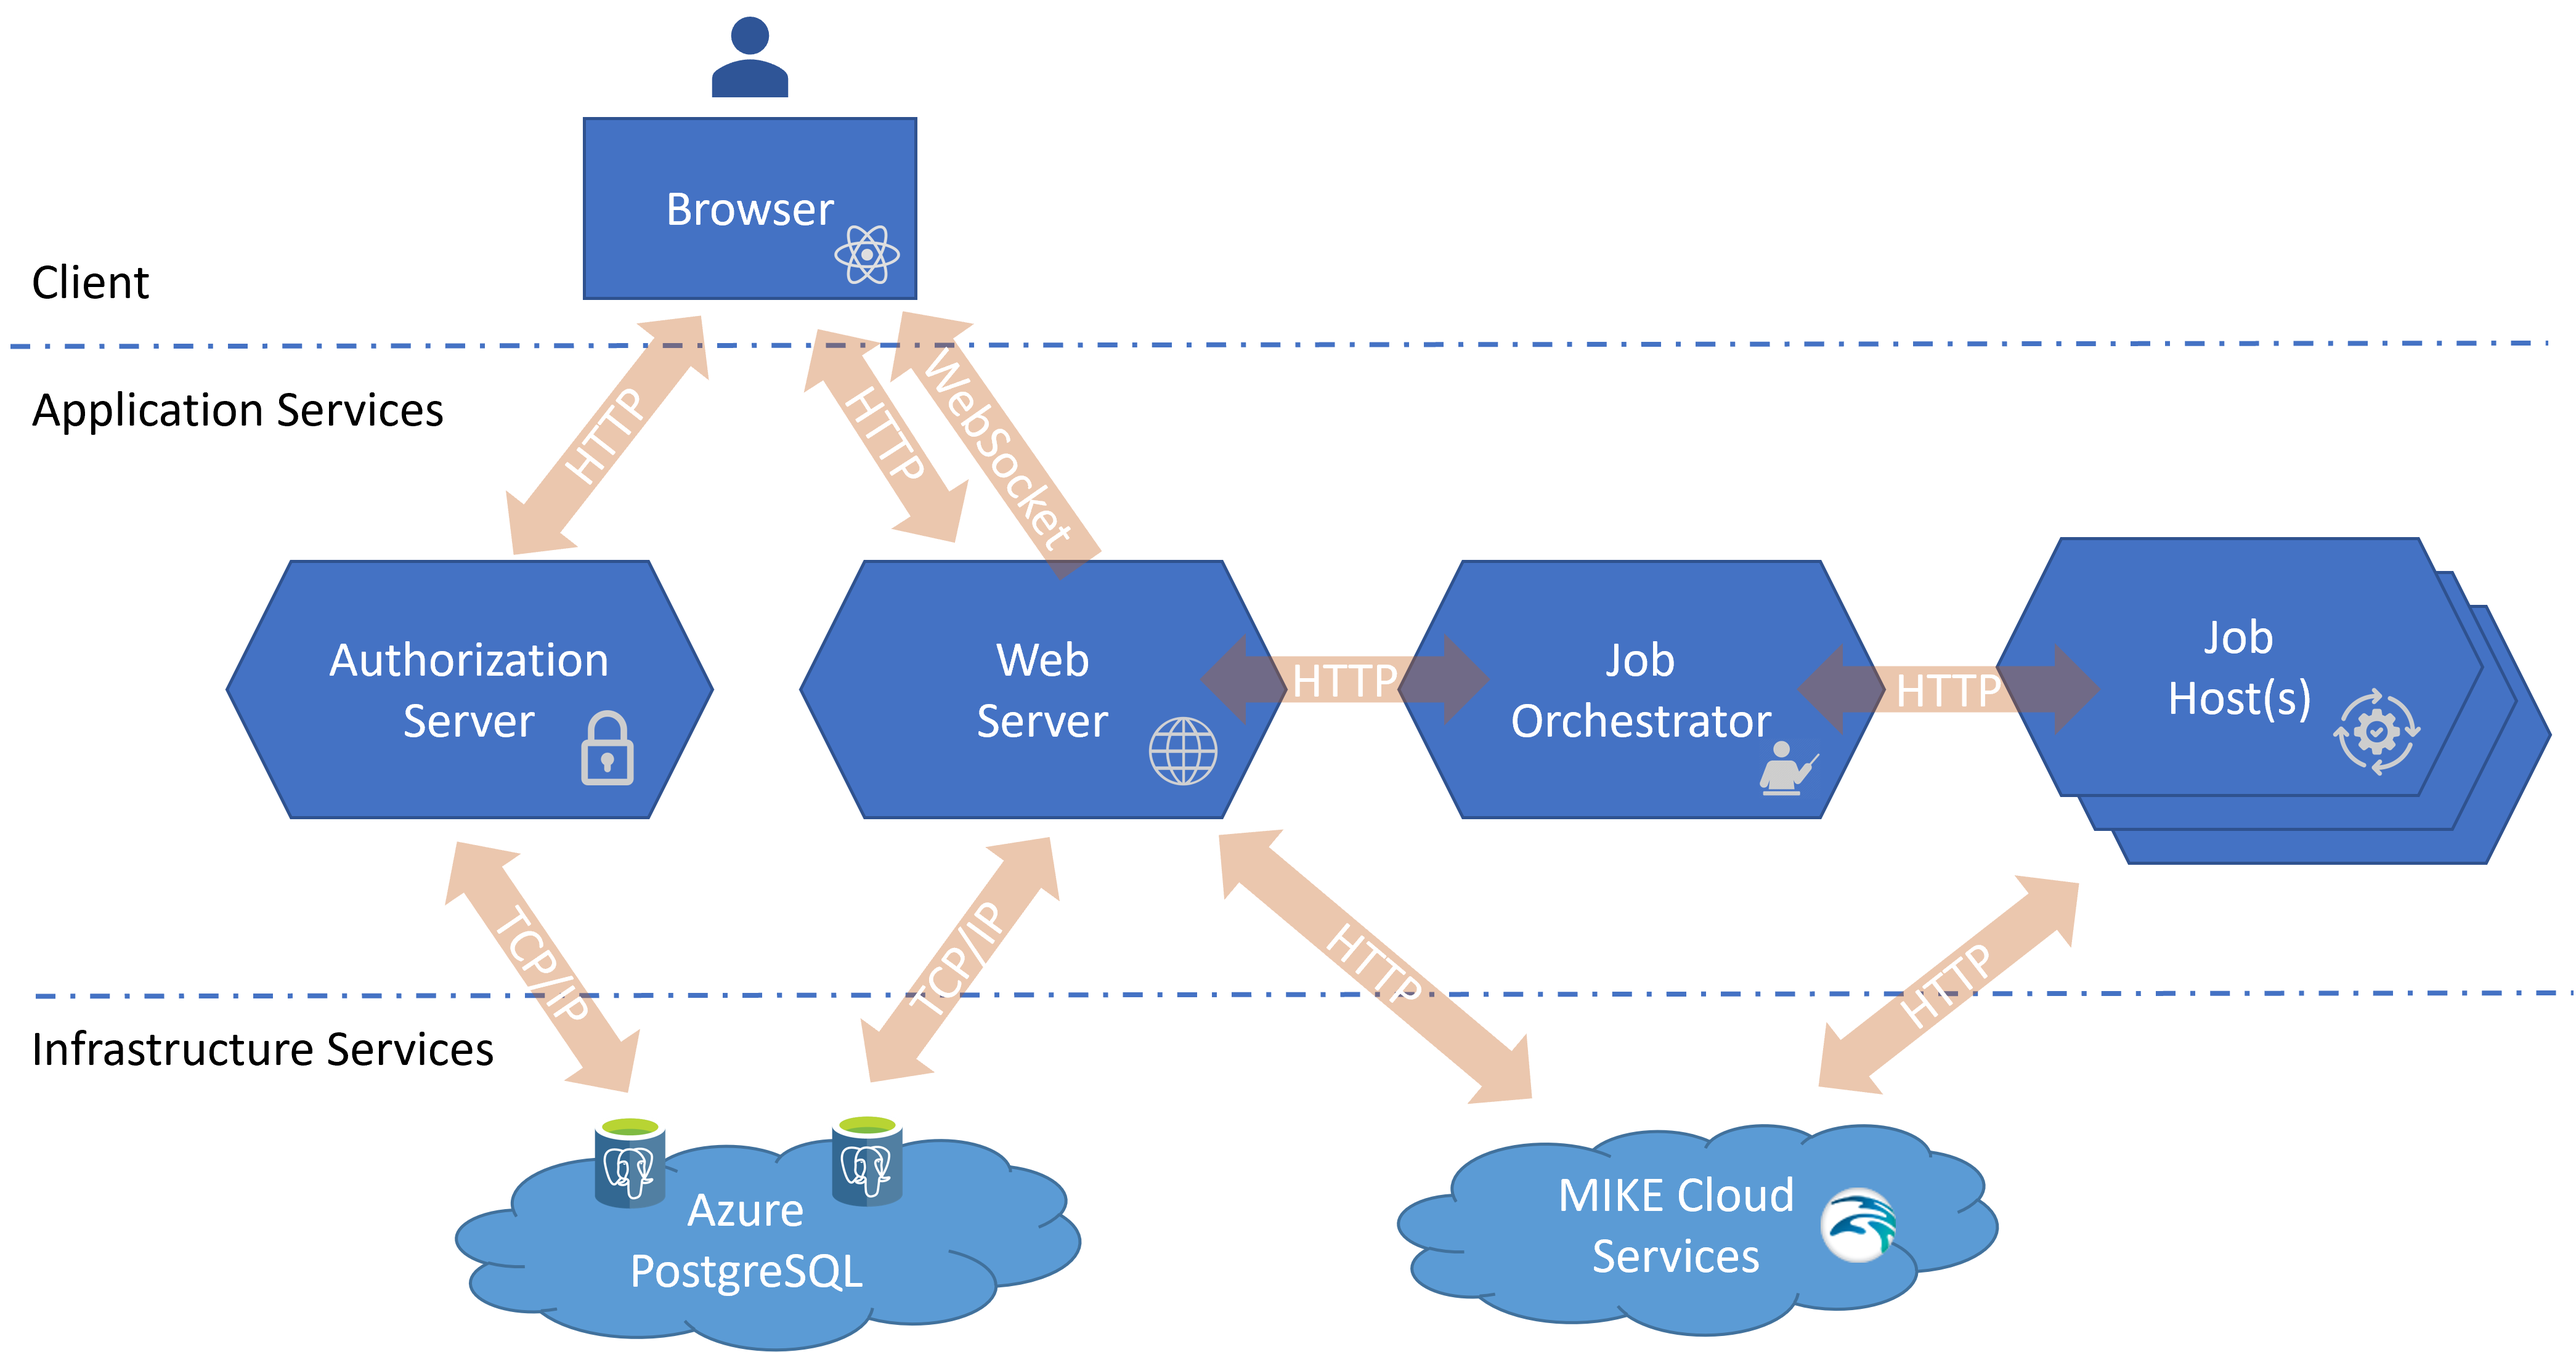
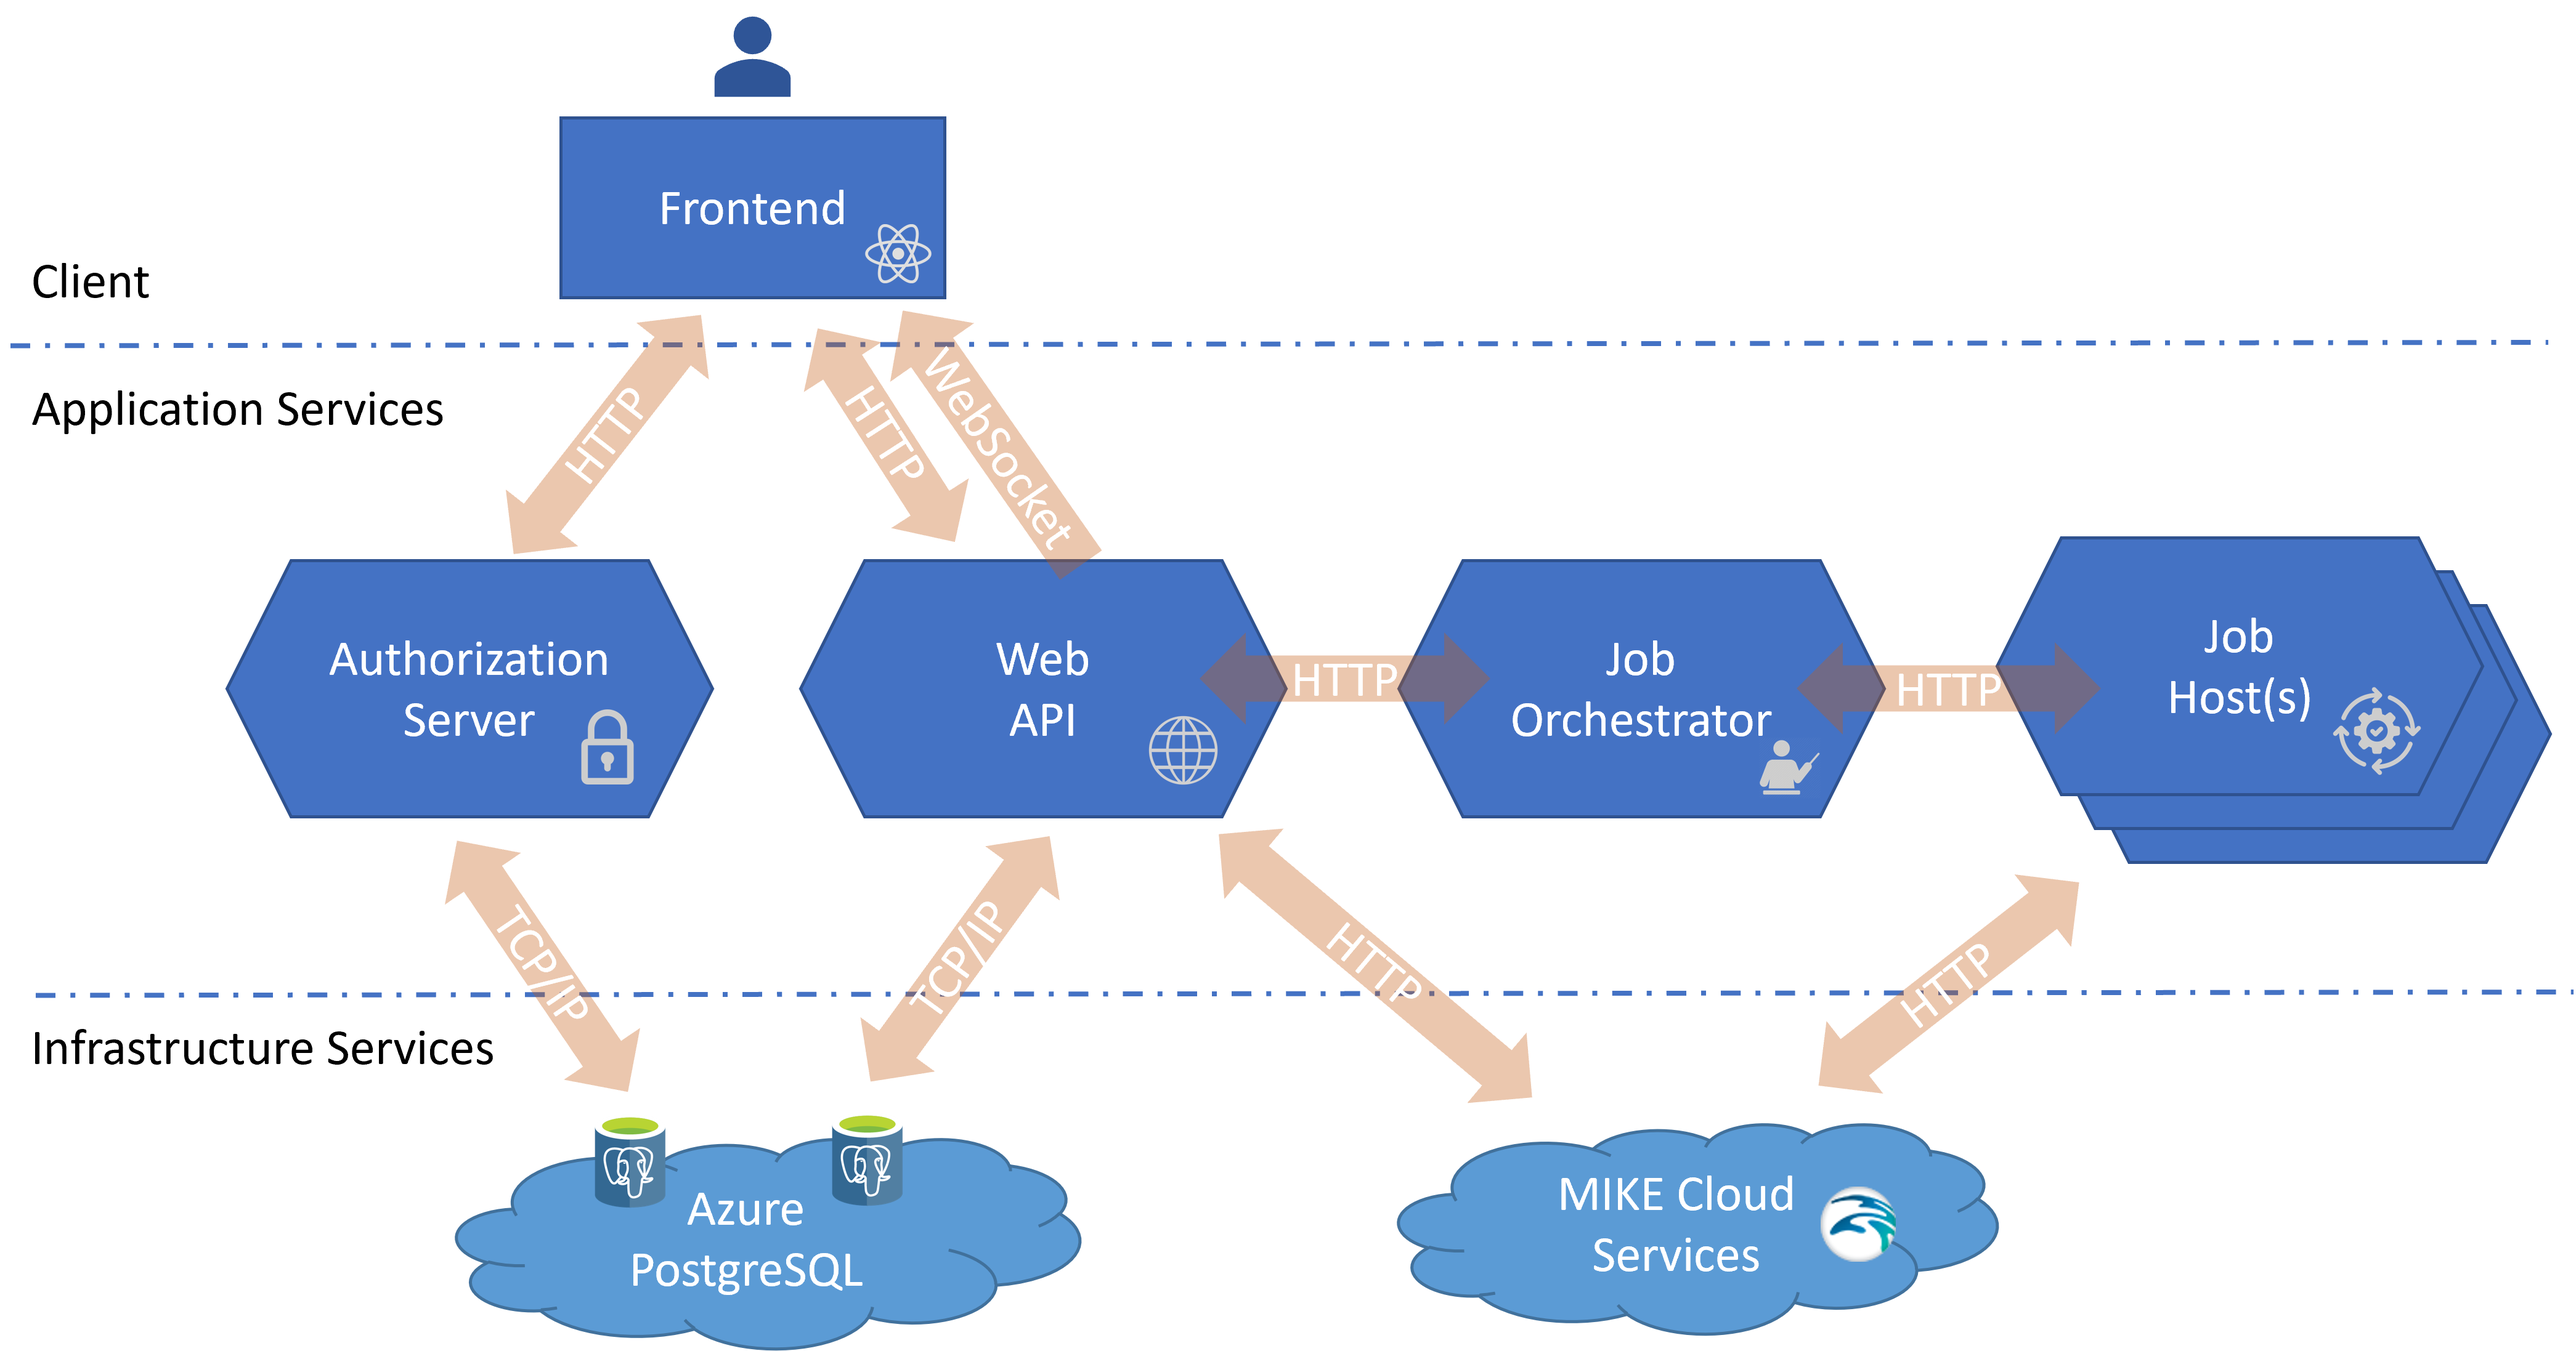
Web Server -> Web API

Changed region(s): [[0.2177, 0.093, 0.3731, 0.217], [0.3731, 0.5269, 0.4353, 0.5579]]

diff --git a/README.md b/README.md
@@ -11,13 +11,13 @@ The sample application is orchestrating a MIKE model execution workflow and disp
 
 ![](Images/services-communication.png)
 
-During a course, the Authorization Server and the Web Server can be accessed from here:
+During a course, the Authorization Server and the Web API can be accessed from here:
 
 [Authorization Server - UI](https://dsenabler-auth.azurewebsites.net)
 
 [Authorization Server - Swagger UI](https://dsenabler-auth.azurewebsites.net/swagger/index.html)
 
-[Web Server - Swagger UI](https://dsenabler-api.azurewebsites.net/swagger/index.html)
+[Web API - Swagger UI](https://dsenabler-api.azurewebsites.net/swagger/index.html)
 
 ### Running the sample application locally
 
@@ -33,13 +33,13 @@ Furthermore, the Authorization Server  uses a pair of RSA signing keys for gener
 
 To build and run the Authorization Server in **AuthorizationServer.sln**, use the **BuildAndRun.bat** file. 
 
-#### Web Server
+#### Web API
 
 The web API is configured with a PostgreSQL database. You have to create an environment variable called "PostgreSqlConnectionString" with the connection string.
 
 > NOTE: It requires a restart to enable new environment variables.
 
-To build and run the Web Server in **WebApi.sln**, use the **BuildAndRun.bat** file.
+To build and run the Web API in **WebApi.sln**, use the **BuildAndRun.bat** file.
 
 #### Job Orchestrator
 
